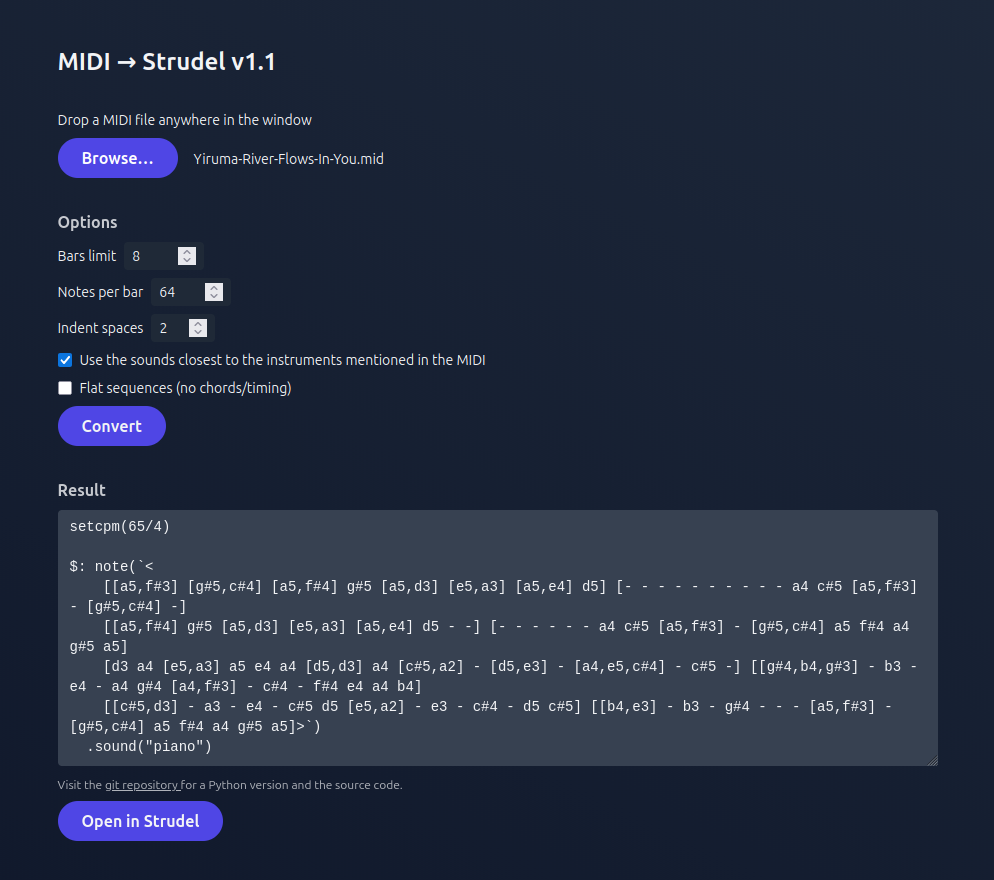
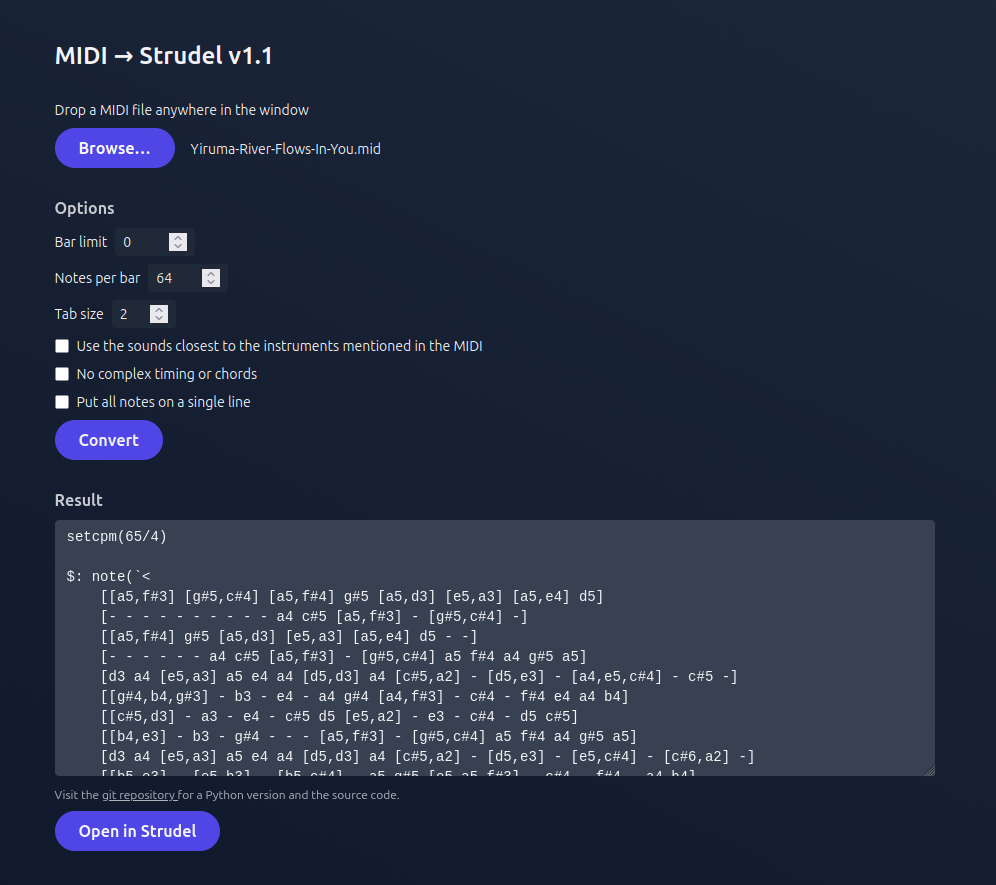
Small print option

diff --git a/index.html b/index.html
@@ -18,7 +18,7 @@
   <body
     class="min-h-screen flex items-center justify-center bg-gradient-to-tr from-slate-900 to-slate-800 text-gray-100"
   >
-    <main class="w-full max-w-4xl p-2 space-y-8">
+    <main class="w-full max-w-4xl p-2 space-y-7">
       <h1 class="text-2xl font-bold">MIDI → Strudel v1.1</h1>
 
       <section class="space-y-2 text-sm">
@@ -34,8 +34,8 @@
       <section class="space-y-2 text-sm">
         <h2 class="text-base font-semibold opacity-80">Options</h2>
 
-        <label class="flex items-center gap-2">
-          <span>Bars limit</span>
+        <label class="flex items-center gap-2" title="The amount of bars to convert. 0 means no limit.">
+          <span>Bar limit</span>
           <input
             id="barLimit"
             type="number"
@@ -45,7 +45,7 @@
           />
         </label>
 
-        <label class="flex items-center gap-2">
+        <label class="flex items-center gap-2" title="The resolution. Usually in steps of 4 (4, 8, 16...). Higher gives better note placement but can get big.">
           <span>Notes per bar</span>
           <input
             id="notesPerBar"
@@ -56,8 +56,8 @@
           />
         </label>
 
-        <label class="flex items-center gap-2">
-          <span>Indent spaces</span>
+        <label class="flex items-center gap-2" title="How many spaces to use for indentation in the output.">
+          <span>Tab size</span>
           <input
             id="tabSize"
             type="number"
@@ -74,8 +74,13 @@
         </label>
 
         <label class="flex items-center gap-2">
-          <input id="flat" type="checkbox" />
-          <span>Flat sequences (no chords/timing)</span>
+          <input id="flatSequences" type="checkbox" />
+          <span>No complex timing or chords</span>
+        </label>
+
+        <label class="flex items-center gap-2" title="Makes it harder to make changes, but takes up less space for a drop & forget.">
+          <input id="smallPrint" type="checkbox" />
+          <span>Put all notes on a single line</span>
         </label>
 
         <button

diff --git a/main.js b/main.js
@@ -200,7 +200,7 @@ function midiToStrudel(arrayBuffer, opts) {
           continue;
         }
 
-        if (opts.flat) {
+        if (opts.flatSequences) {
           const notes = inCycle.map((e) => e.note);
           bars.push(notes.length === 1 ? notes[0] : `[${notes.join(" ")}]`);
         } else {
@@ -259,14 +259,17 @@ function midiToStrudel(arrayBuffer, opts) {
     const bars = trackData.bars;
     const track = trackData.track;
 
-    out.push("$: note(`<");
-    for (let i = 0; i < bars.length; i += barsPerRow) {
-      const chunk = bars.slice(i, i + barsPerRow).join(" ");
-      out.push(`${indent(opts.tabSize * 2)}${chunk}`);
-    }
+    if (opts.smallPrint) {
+      out.push(`$: note(\`<${bars.join("")}>\`)`);
+    } else {
+      out.push("$: note(`<");
+      for (let i = 0; i < bars.length; i += barsPerRow) {
+        const chunk = bars.slice(i, i + barsPerRow).join(" ");
+        out.push(`${indent(opts.tabSize * 2)}${chunk}`);
+      }
 
-    out[out.length - 1] += ">`)";
-    console.log("track@", track);
+      out[out.length - 1] += ">`)";
+    }
 
     let soundName = SOUND_FALLBACK;
     if (opts.guessInstrument) {
@@ -286,7 +289,8 @@ function run(file) {
     notesPerBar: parseInt($("#notesPerBar").value) || 64,
     tabSize: parseInt($("#tabSize").value) || 2,
     guessInstrument: $("#guessInstrument").checked,
-    flat: $("#flat").checked
+    flatSequences: $("#flatSequences").checked,
+    smallPrint: $("#smallPrint").checked
   };
 
   const reader = new FileReader();

diff --git a/Midi-to-Strudel.py b/Midi-to-Strudel.py
@@ -180,6 +180,8 @@ def parse_args():
     parser.add_argument('-t', '--tab-size', type=int, default=2, help='How many spaces to use for indentation in the output. (default: %(default)s)')
     parser.add_argument('-g', '--guess-instrument', action='store_true', help='Use the sounds closest to the instruments mentioned in the MIDI. (default: off)')
     parser.add_argument('-f', '--flat-sequences', action='store_true', help='No complex timing or chords. (default: off)')
+    parser.add_argument('-s', '--small-print', action='store_true', help='Put all notes on a single line.' \
+        ' Makes it harder to make changes, but takes up less space for a drop & forget. (default: off)')
 
     args = parser.parse_args()
     parser.print_help()
@@ -339,12 +341,15 @@ def build_output(tracks, bpm, instruments, args):
 
     bars_per_row = calculate_bars_per_row(tracks)
     for track_key, bars in tracks:
-        output.append('$: note(`<')
-        for i in range(0, len(bars), bars_per_row):
-            chunk = bars[i:i + bars_per_row]
-            output.append(f"{get_indent(args.tab_size, 2)}{' '.join(chunk)}")
-        
-        output[-1] += '>`)'
+        if (args.small_print):
+            output.append(f"$: note(`<{''.join(bars)}>`)")
+        else:
+            output.append('$: note(`<')
+            for i in range(0, len(bars), bars_per_row):
+                chunk = bars[i:i + bars_per_row]
+                output.append(f"{get_indent(args.tab_size, 2)}{' '.join(chunk)}")
+            
+            output[-1] += '>`)'
 
         sound_name = SOUND_FALLBACK
         if args.guess_instrument:
